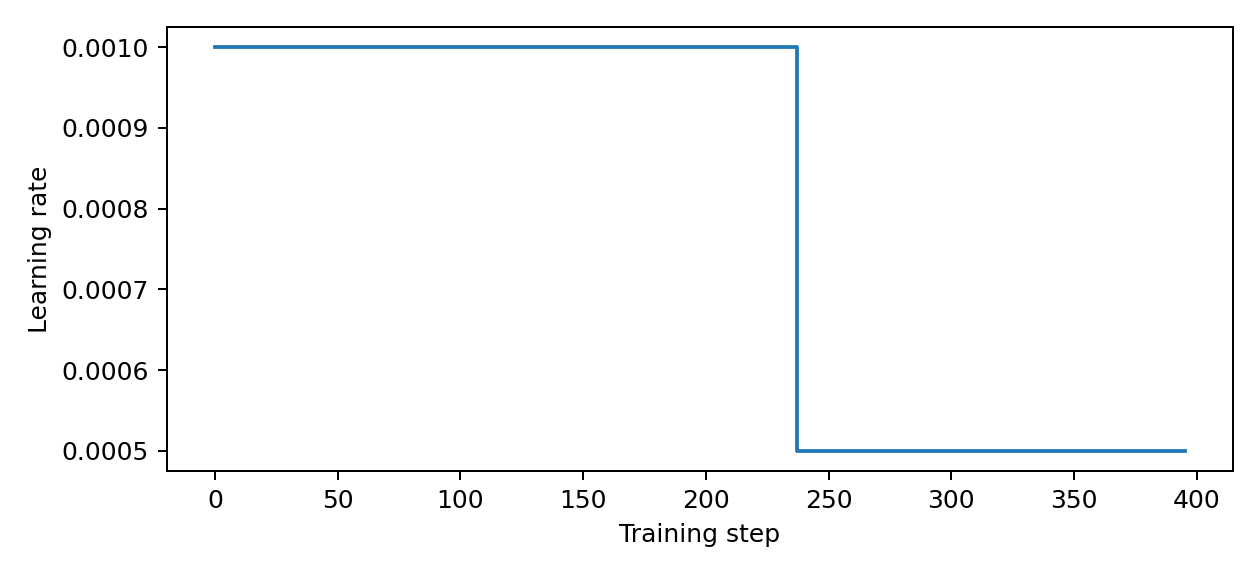
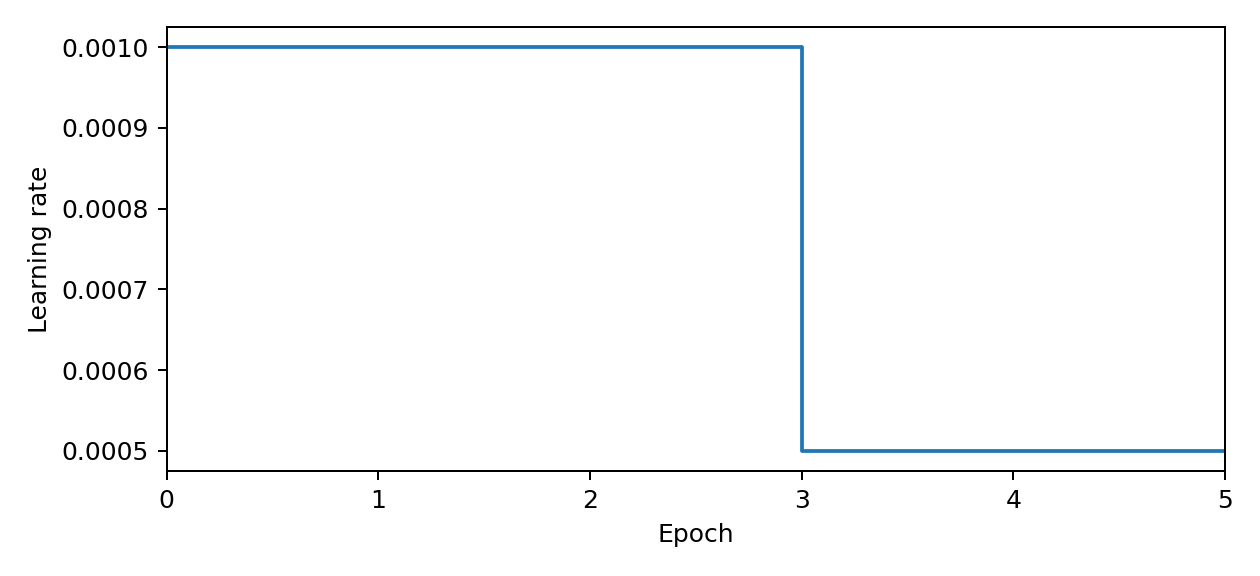
Simplify Q1 discussion and plot metrics against epochs

diff --git a/report/main.tex b/report/main.tex
@@ -331,27 +331,19 @@ In this question, we will try to recognize objects in natural images from the PA
         \item Describe the hyperparameters you experimented with and the effects they had on the train and test metrics.
 
         \begin{solution}
-I read each image's XML annotations into a 20-class binary label vector.
-Following the starter, a class receives zero weight if any instance of that
-class is marked difficult. Q1 uses PyTorch's
-\texttt{BCEWithLogitsLoss(reduction="none")} directly on raw logits, with no
-sigmoid beforehand. It computes numerically stable binary cross-entropy for
-each image/class pair. I retain the masked average
-\[
-L=\frac{\sum_{i,c}w_{ic}\ell(z_{ic},y_{ic})}
-        {\max(1,\sum_{i,c}w_{ic})}.
-\]
-The mask excludes difficult labels from both the loss and its gradients.
-The built-in and manual expressions agree on representative inputs, including
-extreme logits and masked labels; their gradients are finite. Q2 retains its
-manual loss.
+We tested learning rates of 0.001 and 0.0003, each with and without data
+augmentation. All four runs used Adam, batch size 64, seed 0, and five epochs.
+StepLR halved the learning rate after epoch three. Augmentation used random
+horizontal flips and crops with four-pixel reflection padding.
 
-The supplied CNN maps $64\times64$ inputs to $64\times16\times16$ features,
-so the flattened dimension is 16,384. All four runs use Adam, five epochs,
-batch size 64, and seed 0. StepLR halves the rate after epoch three.
-Augmentation uses horizontal flips and a 64-pixel crop after four-pixel
-reflection padding. Evaluation preprocessing and the protected metric
-functions are unchanged.
+A smaller learning rate takes smaller steps and may need more epochs to
+converge. At 0.0003, both runs finished with higher logged training loss and
+lower test mAP than at 0.001. This is consistent with slower learning within
+the same training budget. Test mAP was still improving near epoch five for
+both rates, so these curves do not establish convergence. Both rates exceeded
+the approximate 0.22 target. A rate that is too high can overshoot and make
+training unstable, but we did not observe sustained instability at 0.001.
+We did not test a higher rate.
 
 \begin{center}
 \begin{tabular}{llll}
@@ -364,20 +356,13 @@ Initial LR & Augmentation & Last logged loss & Final test mAP \\
 \end{tabular}
 \end{center}
 
-At initial rate 0.001, augmentation improves final mAP by 0.0066;
-at 0.0003, it improves mAP by 0.0046. Augmented examples have
-higher last logged training loss but better test scores. The lower rate
-learns more slowly within this five-epoch budget and gives lower final mAP.
-I select the augmented 0.001 run by final test mAP: 0.2610, above the
-approximate 0.22 target. Its last logged minibatch loss is 0.1729
-at step 390, and its final learning rate is 0.0005. These losses are
-individual logged minibatches, not epoch averages. Both comparison figures
-use initial rate 0.001; the other three figures show the selected run.
-
-The supplied evaluator averages AP over test batches of 1,000. I use that
-procedure for every run. These single-seed test-set comparisons describe the
-assignment experiments; they do not establish that the differences hold
-across seeds.
+Augmentation increased the last logged training loss but improved final test
+mAP at both learning rates. The transformed images were harder to fit, while
+the test results suggest better generalization. Our best run used 0.001 with
+augmentation: final mAP was 0.2610, the last logged minibatch loss was 0.1729,
+and the final learning rate was 0.0005. The losses in the table are individual
+logged minibatches, not epoch averages. The augmentation comparison plots use
+the same initial learning rate, 0.001.
 \end{solution}
     \end{itemize}
 \end{itemize}

diff --git a/scripts/make_figures.py b/scripts/make_figures.py
@@ -17,14 +17,27 @@ def scalars(run, tag):
 
 def plot(runs, tag, filename, ylabel):
     fig, ax = plt.subplots(figsize=(7, 3.2))
+    q1 = filename.startswith('q1_')
     for run, label in runs:
         values = scalars(run, tag)
+        steps = [v.step for v in values]
+        if q1:
+            rates = scalars(run, 'learning_rate')
+            steps_per_epoch = rates[0].step
+            # Minibatch tags use zero-based indices; the final mAP and LR
+            # use completed-update counts in the starter's logging loop.
+            if tag != 'learning_rate':
+                steps = [min(step + 1, rates[-1].step) for step in steps]
+            steps = [step / steps_per_epoch for step in steps]
         if tag == 'learning_rate':
-            ax.step([0] + [v.step for v in values],
+            ax.step([0] + steps,
                     [values[0].value] + [v.value for v in values], where='post', label=label)
         else:
-            ax.plot([v.step for v in values], [v.value for v in values], label=label)
-    ax.set(xlabel='Training step', ylabel=ylabel)
+            ax.plot(steps, [v.value for v in values], label=label)
+    ax.set(xlabel='Epoch' if q1 else 'Training step', ylabel=ylabel)
+    if q1:
+        ax.set_xlim(0, 5)
+        ax.set_xticks(range(6))
     if len(runs) > 1:
         ax.legend()
     fig.tight_layout()

diff --git a/README.md b/README.md
@@ -86,6 +86,8 @@ python scripts/make_figures.py
 python -m tensorboard.main --logdir ../runs/starter_revision --host 127.0.0.1 --port 6006 --load_fast=false
 ```
 
+Q1 report plots convert logged steps to epochs using the 79 minibatches per epoch. They show at most five epochs; the learning-rate change occurs at epoch three.
+
 For the fresh Q1 dashboard, use `--logdir ../runs/q1_bce_revision` in the TensorBoard command.
 
 The assignment provides no t-SNE implementation or combined scalar/loss plotting function, so the small scripts handle those deliverables. t-SNE uses the final 50-epoch model, 1,000 distinct test images, seed 0, the 512-dimensional pooled features, sklearn, and the required mean RGB class colors. Detector loss curves sum the three losses already logged by the starter.
